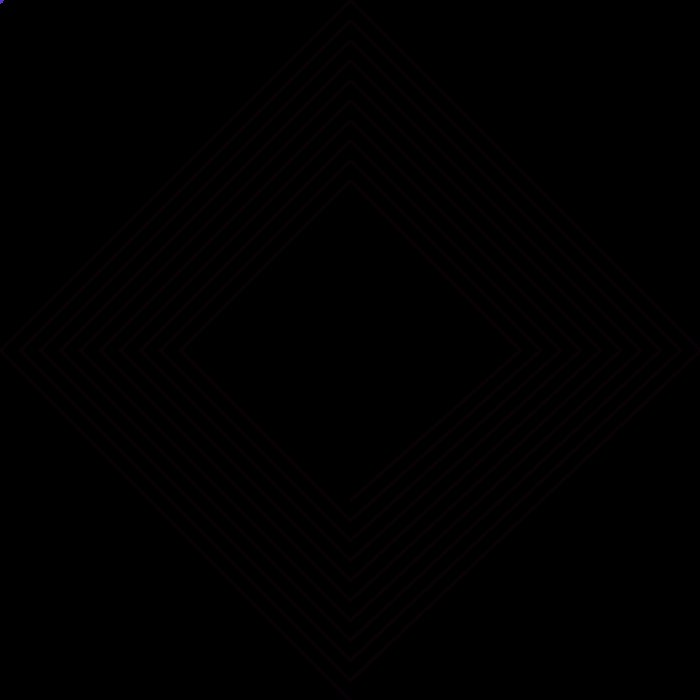
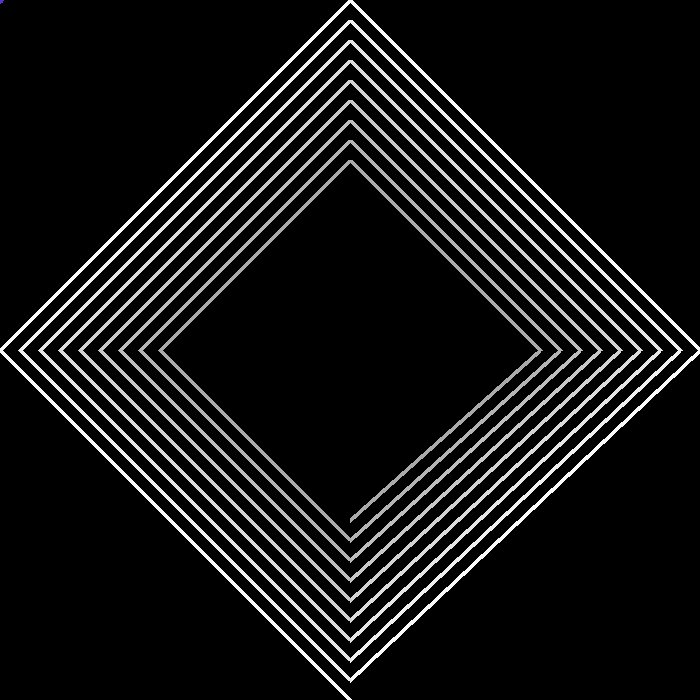
Initial commit

Changed region(s): [[0.0, 0.0, 1.0, 1.0]]

diff --git a/main2.py b/main2.py
@@ -3,7 +3,7 @@ import pygame, random
 screen = pygame.display.set_mode([700, 700])
 x = 350
 y = 350
-c = [88, 51, 202]
+l = [250,250,250]
 
 
 def romb(x, y, shag, shag2, shagshag,c):
@@ -51,7 +51,8 @@ while True:
         elif b.type == pygame.KEYDOWN and b.key == pygame.K_RIGHT:
             x -= 1
         if b.type == pygame.KEYDOWN and b.key == pygame.K_SPACE:
-            c=[random.randint(0,255),random.randint(0,255),random.randint(0,255)]
+            l=[random.randint(0,255),random.randint(0,255),random.randint(0,255)]
+    print(l)
+    romb(350, 350 + y, x, y, 20,l.copy())
 
-    romb(350, 350 + y, x, y, 20,c)
     pygame.display.flip()

diff --git a/main3.py b/main3.py
@@ -1,0 +1,10 @@
+import pygame
+
+screen=pygame.display.set_mode([700,700])
+def loza(a,b,c,d):
+    pygame.draw.line(screen,[0,255,0],[a,b],[c,d],5)
+while True:
+    event = pygame.event.get()
+    screen.fill([0, 0, 0])
+    loza(0,350,700,350)
+    pygame.display.flip()
